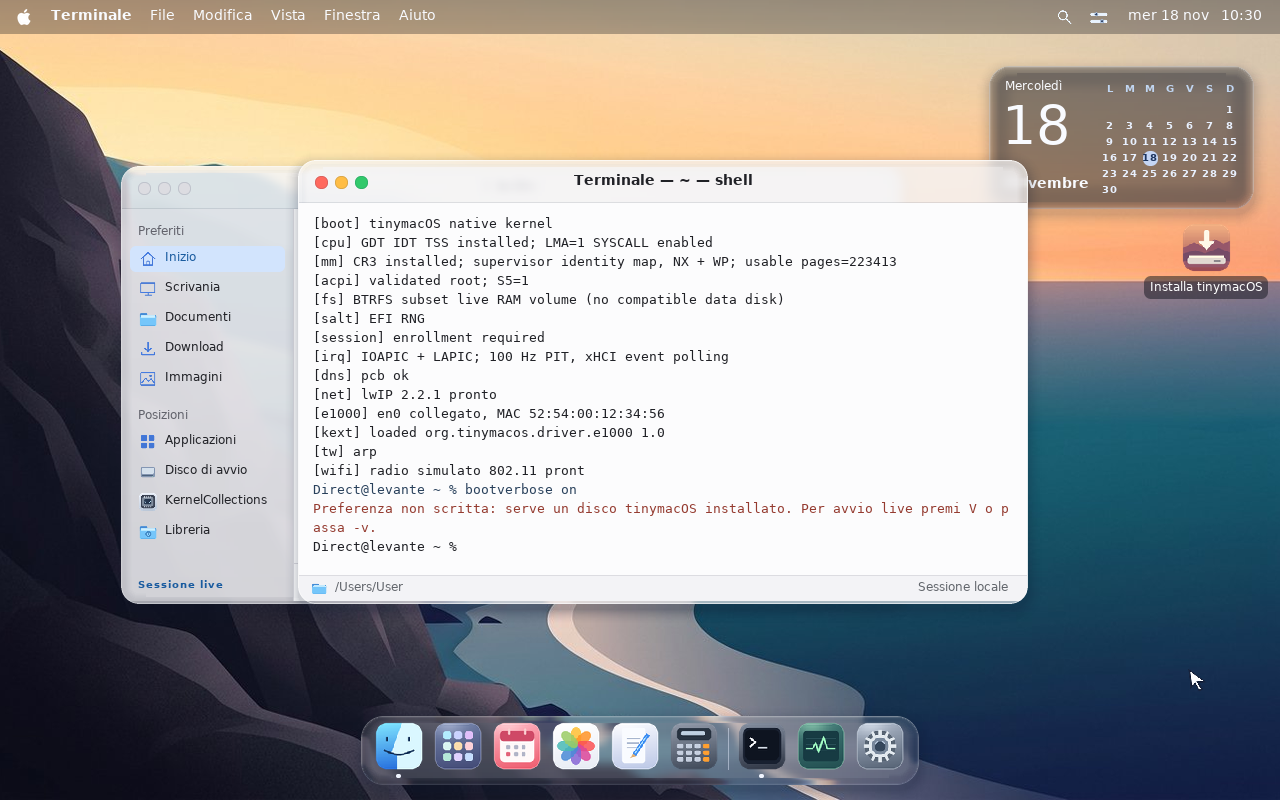
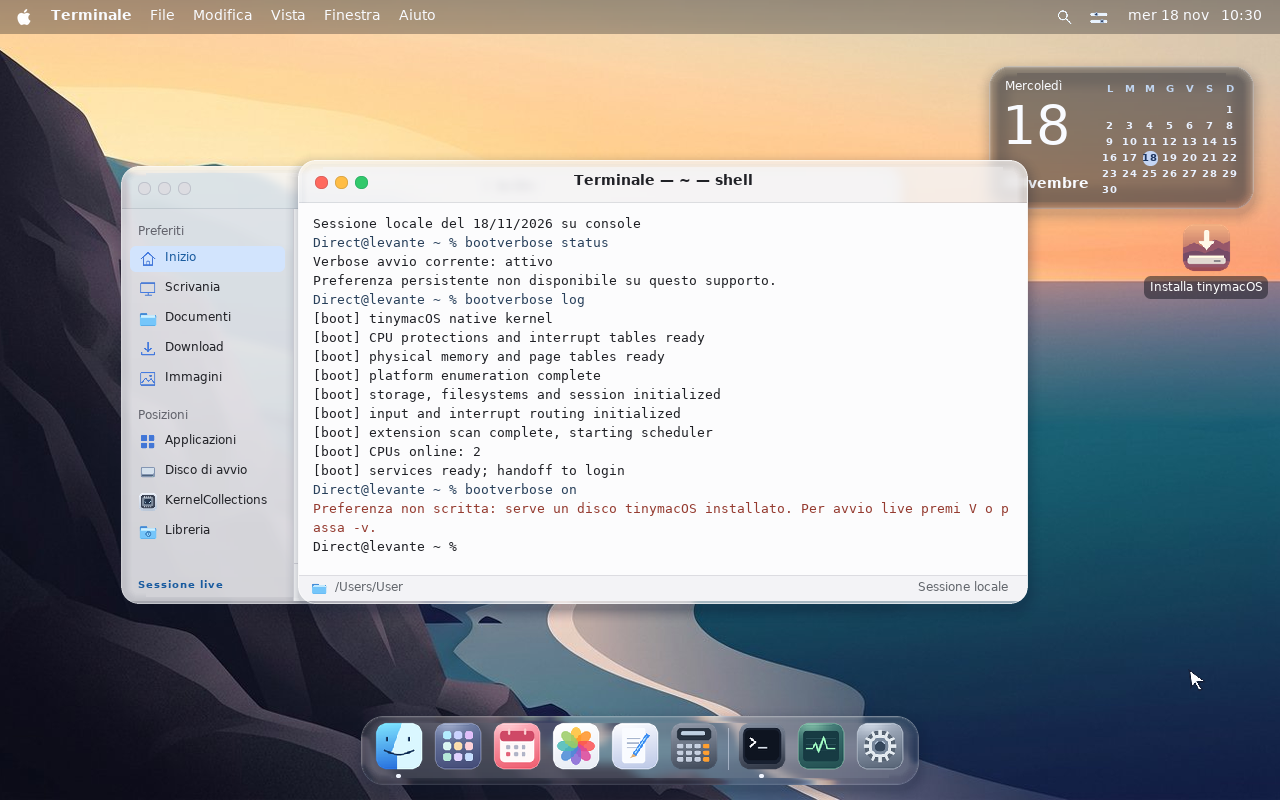
Record verified installed verbose round trips and current UEFI/BIOS/runtime QA; add safe incremental sync tooling

Changed region(s): [[0.25, 0.25, 0.6875, 0.5938]]

diff --git a/workspace/github_sync.py b/workspace/github_sync.py
@@ -1,0 +1,53 @@
+#!/usr/bin/env python3
+"""Back up the workspace to its private repo without storing Git/auth in snapshots.
+Default is status only. Use --push -m '...' to commit and push. Never force-push.
+If local Git metadata was lost, fetches the existing remote without checking out
+or overwriting workspace files. Missing files block the commit unless deletion
+was explicitly requested. A complete recovery should use a normal git clone.
+"""
+import argparse,os,re,shutil,subprocess,sys
+from pathlib import Path
+root=Path(__file__).resolve().parents[1]
+ap=argparse.ArgumentParser(description=__doc__)
+ap.add_argument('--push',action='store_true');ap.add_argument('-m','--message',default='Synchronize tinymacOS development workspace')
+ap.add_argument('--allow-delete',action='store_true');args=ap.parse_args()
+gitdir=Path(os.environ.get('TMC_GIT_DIR','/var/tmp/tmc-github-git/tinymacOS.git')).resolve()
+if gitdir.is_relative_to(root):raise SystemExit('Git metadata must be outside the workspace to preserve snapshot budget.')
+gh=os.environ.get('GH_BIN') or shutil.which('gh') or '/var/tmp/tmc-github-cli/gh'
+if not Path(gh).is_file():raise SystemExit('Install official GitHub CLI and authorize gh auth login first; no tokens in this script.')
+env=os.environ.copy()
+if 'GH_CONFIG_DIR' not in env and Path('/var/tmp/tmc-github-auth').is_dir():env['GH_CONFIG_DIR']='/var/tmp/tmc-github-auth'
+repo='ESPNex/tinymacOS';remote='https://github.com/'+repo+'.git'
+base=['git','--git-dir='+str(gitdir),'--work-tree='+str(root)]
+def run(cmd,**kw):return subprocess.run(cmd,cwd=root,env=env,check=True,**kw)
+def output(cmd):return run(cmd,stdout=subprocess.PIPE).stdout
+helper=['-c','credential.helper=','-c','credential.helper=!'+str(gh)+' auth git-credential']
+run([gh,'api','user','--silent'])
+if not (gitdir/'HEAD').exists():
+ gitdir.parent.mkdir(parents=True,exist_ok=True)
+ run(['git','init','--bare','--initial-branch=main',str(gitdir)])
+ run(base+['config','core.bare','false']);run(base+['config','core.worktree',str(root)])
+ run(base+['remote','add','origin',remote]);run(base+helper+['fetch','origin','main'])
+ run(base+['update-ref','refs/heads/main','FETCH_HEAD']);run(base+['reset','--mixed','HEAD'])
+actual=output(base+['remote','get-url','origin']).decode().strip()
+if actual!=remote:raise SystemExit('Unexpected origin; refusing to publish to another repository.')
+if not args.push:
+ run(base+['status','--short']);raise SystemExit(0)
+privacy=output([gh,'repo','view',repo,'--json','isPrivate','--jq','.isPrivate']).strip()
+if privacy!=b'true':raise SystemExit('Repository is not private; refusing to publish.')
+run(base+['add','--all'])
+deleted=output(base+['diff','--cached','--name-only','--diff-filter=D','-z'])
+if deleted and not args.allow_delete:raise SystemExit('Staged deletions found. Check missing snapshot files; restore from GitHub, or explicitly --allow-delete for intended deletions.')
+patterns=[rb'gh[pousr]_[A-Za-z0-9]{30,}',rb'github_pat_[A-Za-z0-9_]{40,}',rb'AKIA[A-Z0-9]{16}',rb'-----BEGIN (?:RSA |EC |OPENSSH )?PRIVATE KEY-----',rb'https://[^\s/@:]+:[^\s/@]+@github\.com']
+changed=output(base+['diff','--cached','--name-only','--diff-filter=ACMR','-z']).decode().strip('\0').split('\0')
+for name in filter(None,changed):
+ data=output(base+['show',':'+name])
+ if any(re.search(pattern,data) for pattern in patterns):raise SystemExit('Possible credential in staged file: '+name+'; review before publishing.')
+ if len(data)>95*1024*1024:raise SystemExit('Oversize staged file: '+name)
+run(base+['config','user.name','Arena workspace backup']);run(base+['config','user.email','arena-workspace@users.noreply.github.com'])
+if output(base+['diff','--cached','--name-only']).strip():run(base+['commit','-m',args.message])
+run(base+helper+['push','--set-upstream','origin','main'])
+local=output(base+['rev-parse','HEAD']).decode().strip()
+remote_sha=output([gh,'api','repos/'+repo+'/commits/main','--jq','.sha']).decode().strip()
+if local!=remote_sha:raise SystemExit('Remote verification mismatch; do not claim a completed backup.')
+print('Verified private backup: https://github.com/'+repo+'/commit/'+local)

diff --git a/workspace/integrated-next/qa/bios_boot.py b/workspace/integrated-next/qa/bios_boot.py
@@ -4,14 +4,15 @@ from pathlib import Path
 sys.path.insert(0,'/home/user/tinymacOS/tests')
 from retail_guest import Retail
 from pixels import locate
-w=Path(tempfile.mkdtemp(prefix='tmc-bios-test-',dir='/var/tmp'));e=Path(__file__).resolve().parents[1]/'evidence/bios-verified-config';e.mkdir(exist_ok=True)
-os.environ.update(TOOLROOT='/var/tmp/tmc/tools/root',TMC_BUILD='/var/tmp/tmc-integrated-system',TMC_BIOS_DISK=os.environ.get('TMC_BIOS_DISK','/var/tmp/tmc-legacy-config2.raw'),TMC_POINTER='mouse')
+w=Path(tempfile.mkdtemp(prefix='tmc-bios-test-',dir='/var/tmp'));e=Path(__file__).resolve().parents[1]/'evidence/bios-current';e.mkdir(exist_ok=True)
+os.environ.update(TOOLROOT='/var/tmp/tmc/tools/root',TMC_BUILD='/var/tmp/tmc-integrated-system',TMC_BIOS_DISK=os.environ.get('TMC_BIOS_DISK','/var/tmp/tmc-legacy-config3.raw'),TMC_POINTER='mouse')
 class BIOS(Retail):
  def frame(self):return self.snap()
  def wait(self,*args,**kwargs):
   end=time.monotonic()+80;saved=False
   while time.monotonic()<end:
    im=self.snap();im.save(e/'bios-latest.png')
+   if im.size==(1280,800) and im.crop((0,0,140,7)).convert('L').getextrema()[1]>180:im.save(e/'bios-picker-sample.png')
    if time.monotonic()>end-65 and not getattr(self,'boot_selected',False):
     im.save(e/'bios-opencore-picker.png');self.key('ret');self.boot_selected=True
    if not saved and time.monotonic()>end-73:im.save(e/'bios-early.png');saved=True
@@ -21,8 +22,8 @@ class BIOS(Retail):
 record={'passed':False}
 try:
  with BIOS('/not-attached',w,e,'bios-duet',live=True,launcher=Path('/home/user/tinymacOS/tools/run-bios-qemu.sh')) as g:
-  g.shot('bios-duet-setup');g.enroll(name='Bios');g.key('f2');g.visible('Sessione locale');g.cmd('bootverbose status');g.shot('bios-status-actual');g.visible('Verbose avvio corrente: attivo');g.shot('bios-verbose-status');g.cmd('bootverbose log');g.visible('[boot] tinymacOS native kernel',faces=(0,1,2,3,5,6,8));g.shot('bios-verbose-log')
-  record.update(passed=True,firmware='SeaBIOS',duet='OpenDuet 1.0.8 BlockIO',opencore='1.0.8',native_setup_login=True,verbose_source='BOOTCFG.BIN verbose flag',verbose_argument=False,terminal_bootverbose=True,bios_installer_boot_without_bootstrap=False)
+  g.shot('bios-duet-setup');g.enroll(name='Bios');g.key('f2');g.visible('Sessione locale');g.cmd('bootverbose status');g.shot('bios-status-actual');g.visible('Verbose avvio corrente: attivo');g.shot('bios-verbose-status');g.cmd('bootverbose log');g.visible('[boot] tinymacOS native kernel',faces=(0,1,2,3,5,6,8));g.visible('[boot] CPUs online: 2');g.shot('bios-verbose-log')
+  record.update(passed=True,firmware='SeaBIOS',duet='OpenDuet 1.0.8 BlockIO',opencore='1.0.8',native_setup_login=True,native_cpus_online=2,verbose_source='BOOTCFG.BIN verbose flag',verbose_argument=False,terminal_bootverbose=True,bios_installer_boot_without_bootstrap=False)
 finally:
  (e/'bios-duet.json').write_text(json.dumps(record,indent=2));print('run directory',w)
 print('PASS BIOS -> OpenDuet -> OpenCore -> native kernel/setup/login/verbose command')

diff --git a/workspace/integrated-next/qa/verbose_direct.py b/workspace/integrated-next/qa/verbose_direct.py
@@ -22,6 +22,6 @@ class Direct(Retail):
 record={'passed':False,'scope':'direct UEFI V-key and retail command/log; not installed persistence'}
 try:
  with Direct('/var/tmp/tmc-integrated-system/tinymacOS-2.4.3-x86_64.iso',w,out,'direct',live=True) as g:
-  g.key('backspace');g.key('backspace');g.enroll(name='Direct');g.key('f2');g.visible('Sessione locale');g.cmd('bootverbose status','Verbose avvio corrente: attivo');g.shot('status');g.cmd('bootverbose log');g.visible('[boot] tinymacOS native kernel');g.shot('log-page0');g.cmd('bootverbose on','Preferenza non scritta');g.shot('live-write-refusal');record.update(passed=True)
+  g.key('backspace');g.key('backspace');g.enroll(name='Direct');g.key('f2');g.visible('Sessione locale');g.cmd('bootverbose status','Verbose avvio corrente: attivo');g.shot('status');g.cmd('bootverbose log');g.visible('[boot] tinymacOS native kernel');g.visible('[boot] CPUs online: 2');g.shot('log-page0');g.cmd('bootverbose on','Preferenza non scritta');g.shot('live-write-refusal');record.update(passed=True)
 finally:(out/'result.json').write_text(json.dumps(record,indent=2))
 print('PASS direct UEFI V-key verbose + status/log + live immutable medium write refusal')

diff --git a/workspace/integrated-next/STATUS.md b/workspace/integrated-next/STATUS.md
@@ -1,0 +1,63 @@
+# Sviluppo integrato — stato di ripresa
+
+## Backup verificato
+
+Repository privata: https://github.com/ESPNex/tinymacOS . Primo commit effettivamente caricato e verificato: `7da0b6c7eee2f59226915d2bf19b66602e72ef91` (1.418 file; albero remoto confrontato per percorso, mode e Git blob hash). Le modifiche successive e i nuovi risultati vengono conservati nei commit seguenti di `main`.
+
+Il database Git Arena si trova in `/var/tmp/tmc-github-git/tinymacOS.git`, la CLI ufficiale in `/var/tmp/tmc-github-cli/gh` e l'autenticazione in una directory separata sotto `/var/tmp`. **Non sono sorgenti persistenti né il backup**. Non copiare credenziali nel checkout. Per riprendere da un altro ambiente, usare un normale clone GitHub privato e nuova autenticazione. `../github_sync.py` permette il backup incrementale senza `.git` nel workspace; controlla repository privata/commit remoto e blocca cancellazioni implicite da snapshot incompleti.
+
+## Risultati correnti
+
+| Area | Esito e prova | Limite |
+|---|---|---|
+| Backend/runtime | Suite completa 15/15 PASS rieseguita sul codice corrente; `../webkit-tmc/test-results/milestone-tests.json` | Non è accettazione browser |
+| VM/MMU | Operazioni positive reali con 1/2 vCPU, sette fault intenzionali per profilo | NX, arena 240 MiB, 32 riserve, massimo 64 MiB per riserva; non mmap POSIX completo |
+| SMP concorrente | Quattro worker × 400 round; 1.600 syscall buffer in gara con VM/allocazioni; PASS 4 e 8 vCPU; `evidence/smp-stress-{4,8}/result.json` | Queste prove precedono le ultime modifiche alla sola console/verbose; non provano libc pthread/TLS |
+| Verbose UEFI diretto | V durante la mela; framebuffer testuale osservato, stato/log Terminale, due CPU online; `evidence/verbose-direct/result.json` | Su live la scrittura persistente è correttamente rifiutata |
+| BIOS/OpenDuet/OpenCore | Disco QA FAT32/MBR: SeaBIOS → OpenDuet 1.0.8 BlockIO → OpenCore 1.0.8 → loader nativo → account/desktop/Terminale; due CPU online; `evidence/bios-current/bios-duet.json` | Verbose verificato da BOOTCFG, **non** da `boot-args`/LoadOptions. Non è ancora ISO ibrida né installazione BIOS autonoma |
+| Verbose su installato | Installer reale su SATA usa-e-getta, avvio senza ISO; off → Terminale on → riavvio verbose → Terminale off → riavvio quieto; `evidence/verbose-installed/result.json` | Provato UEFI/QEMU; nessuna prova hardware fisico |
+| Integrità installato | ESP e copia di ripristino OS identiche; Recovery cambia soltanto nel singolo settore BOOTCFG e ritorna identica dopo off | Il checksum di BOOTCFG rileva corruzione accidentale, non è una firma crittografica |
+
+### Comandi Terminale
+
+```text
+bootverbose status
+bootverbose on
+bootverbose off
+bootverbose log
+bootverbose log 1
+```
+
+`on/off` controllano il prossimo avvio di un sistema installato; il boot corrente non viene modificato retroattivamente. Il log è un log di avvio nativo, senza il tracing dettagliato del runtime retail. È leggibile dopo autenticazione, in pagine da 512 byte, da 0 a 31. I messaggi del loader precedenti al kernel sono visualizzati in verbose ma non copiati nel ring kernel. Sulla live usare V durante l'avvio oppure un BOOTCFG valido sul supporto di prova; il file ISO è in sola lettura. Le normali impostazioni non vanno scritte dentro l'ESP sigillata.
+
+## Sorgenti e build
+
+- Primari: `../../tinymacOS/`; `sources/` è il sottoinsieme modificato rispetto a `baseline-hashes.json`.
+- `qa/sync_sources.py` aggiorna overlay/header e sottoinsieme prima delle build. I vendor restano anche nel primario con lock/licenze.
+- Build e immagini soltanto sotto `/var/tmp`, mai nel checkout. Questi output possono sparire: ricostruirli dai sorgenti, non prometterne la persistenza.
+- `../../tinymacOS/tools/build-legacy.py` crea solo un nuovo file disco QA esterno. Il fallback EFI punta a OpenCore, il loader nativo è separato in EFI/TMC. La voce nativa viene cercata tramite BlessOverride; i tentativi precedenti con entry custom non sono prove positive.
+- Config OpenCore validata con ocvalidate ufficiale 1.0.8; artefatti di redistribuzione estratti in `vendor/opencore-1.0.8/`, non un checkout completo dei sorgenti upstream.
+- Il parser ACPI del loader include ora fallback alla tabella ACPI 1.0 e ricerca legacy RSDP checksummed; il test BIOS corrente verifica effettivamente due CPU online.
+
+## Blocchi ancora aperti
+
+1. **Safari/WebKit reale assente.** Non sono compilati WTF, JavaScriptCore o WebCore. Nessun rendering reale HTML/CSS/JS o HTTPS nel browser, né shell Safari collegata ai temi. Restano runtime libc/C++, TLS/errno di thread, pthread/attese, allocator WTF, grafica/font/event loop e TLS di rete con validazione completa.
+2. Il bootstrap BIOS di prova non aggiorna l'installer GPT/FAT16 a un sistema BIOS installato autonomo. Non distribuire il disco QA come se fosse l'ISO integrata richiesta.
+3. Verificare o correggere il percorso OpenCore `-v`: i tentativi precedenti senza BOOTCFG non hanno attivato il flag. Il risultato positivo corrente usa deliberatamente BOOTCFG, non nasconde questo limite.
+4. Completare i test di regressione e hardware prima di una release. Lo stress nativo non equivale a un audit generale della sicurezza.
+5. **Nessun nuovo deploy ISO.** Ultima release distribuita resta la manutenzione 2.4.3, senza browser; non chiamare le build diagnostiche una nuova release Safari.
+
+## Ripetizione QA
+
+```sh
+python3 workspace/integrated-next/qa/sync_sources.py
+TOOLROOT=/var/tmp/tmc/tools/root TMC_BUILD=/var/tmp/tmc-integrated-system bash tinymacOS/build.sh
+python3 workspace/integrated-next/qa/verbose_installed.py
+python3 workspace/integrated-next/qa/verbose_direct.py
+python3 tinymacOS/tools/build-legacy.py --verbose-config /var/tmp/tmc-integrated-system/tinymacOS-2.4.3-x86_64.iso /var/tmp/tmc-legacy-config3.raw
+python3 workspace/integrated-next/qa/bios_boot.py
+TOOLROOT=/var/tmp/tmc/tools/root python3 workspace/webkit-tmc/tools/run-tests.py --guest
+python3 workspace/github_sync.py --push -m "Aggiornamento sviluppo e prove"
+```
+
+La destinazione raw deve essere nuova: se esiste già, sceglierne una nuova e passare lo stesso percorso alla variabile `TMC_BIOS_DISK` del test. Alcuni percorsi QA conservano il workspace `/home/user`: adattarli in un clone diverso. Non lanciare test contro dischi reali o dati da conservare.

diff --git a/workspace/webkit-tmc/README.md b/workspace/webkit-tmc/README.md
@@ -2,6 +2,8 @@
 
 ## Stato reale
 
+**Aggiornamento sviluppo integrato:** SMP VM non è più limitato a una CPU. Stress nativo concorrente PASS con 4 e 8 vCPU (4 worker, 400 round, 1.600 chiamate buffer S_INFO), evidenze in `../integrated-next/evidence/smp-stress-{4,8}/`. Suite backend/runtime completa 15/15 PASS; non sono test JSC/WebCore. Le note di milestone precedenti conservate altrove possono descrivere il vecchio rifiuto SMP. Repository privata di backup: https://github.com/ESPNex/tinymacOS .
+
 **Non è ancora un browser e non è ancora un port WebKit compilabile.**
 
 Nome applicazione concordato: **Safari** (progetto indipendente). Riferimento: Safari desktop classico con tutti i temi del sistema. **La ISO 2.4.1 di manutenzione è stata autorizzata e distribuita prima del browser. Non include Safari/WebKit funzionante.** Il criterio browser resta HTTPS e test HTML/CSS/JavaScript reali. Criteri in `release-gates.json`; avanzamento in `PROGRESS.md`. La 2.4.1 include le nuove ABI kernel ma non il motore. La baseline 2.4.0 precedente non contiene quelle ABI.
@@ -14,7 +16,7 @@ Nome applicazione concordato: **Safari** (progetto indipendente). Riferimento: S
 - `posix/src/network.c`: DNS/TCP, nuove operazioni S_NET/8–9 con EOF distinto dagli errori e lettura dello stato. Richiede il kernel aggiornato nell’overlay.
 - `posix/src/poll.c`: attesa su handle TCP con timeout.
 - `posix/src/descriptors.c`: namespace comune file read-only/TCP, dup/offset condiviso, lifetime e poll misto. Contratto backend, non ancora API libc POSIX; chiamante serializzato.
-- `posix/src/vm.c`: nuova VM nativa con riserva/commit/protezioni/guard/decommit, validata sul guest a 1 CPU; SMP ed EXEC esplicitamente rifiutati, non è mmap POSIX.
+- `posix/src/vm.c`: nuova VM nativa con riserva/commit/protezioni/guard/decommit, validata sul guest a 1/2 vCPU e stress concorrente a 4/8 vCPU; EXEC resta rifiutato, non è mmap POSIX.
 - `kernel-overlay/`: dieci file di integrazione sincronizzati con TinymacOS, inclusa la correzione della backpressure TCP.
 - `platform/src/appearance.c`: lettura reale S_INFO, palette condivisa con il compositor, rilevamento cambiamenti. Non ancora collegato a un’interfaccia browser.
 - `posix/src/native_syscall.c`: ponte syscall x86-64 nativo, non syscall Linux.
@@ -33,7 +35,7 @@ Nome applicazione concordato: **Safari** (progetto indipendente). Riferimento: S
 python3 tools/run-tests.py
 ```
 
-La suite base contiene **9 verifiche** host/compilazione oggetti. La suite completa di questo blocco si avvia con `python3 tools/run-tests.py --guest`: **15 verifiche** includendo due build diagnostiche, rete/file sul nuovo kernel e VM/MMU. Probe reale linkata ed eseguita sul guest: TCP 1.048.893 byte con SHA256, FIN/half-close, timeout/EAGAIN/reset; descriptor/dup/seek e font reale 2.215.962 byte con SHA256. VM reale su 1 CPU, 7 fault intenzionali verificati, rifiuto VM su SMP; limiti di arena/mapping documentati. Nessun test JSC/WebCore/HTTPS è ancora disponibile.
+La suite base contiene **9 verifiche** host/compilazione oggetti. La suite completa di questo blocco si avvia con `python3 tools/run-tests.py --guest`: **15 verifiche** includendo due build diagnostiche, rete/file sul nuovo kernel e VM/MMU. Probe reale linkata ed eseguita sul guest: TCP 1.048.893 byte con SHA256, FIN/half-close, timeout/EAGAIN/reset; descriptor/dup/seek e font reale 2.215.962 byte con SHA256. VM reale su 1/2 vCPU, 7 fault intenzionali verificati per profilo, stress multi-CPU separato; limiti di arena/mapping documentati. Nessun test JSC/WebCore/HTTPS è ancora disponibile.
 
 La probe linka un errno globale provvisorio per un solo chiamante; non è una libc multithread. La build QA sostituisce gli alias command soltanto nel volume diagnostico esterno e **non va distribuita**. Gli oggetti standalone conservano dipendenze non risolte finché non vengono linkati con un runtime. Screenshot, hash e limiti in `PROGRESS.md`.
 

diff --git a/README.md b/README.md
@@ -17,7 +17,7 @@ Questo repository conserva i file del workspace necessari a riprendere lo svilup
 
 - VM/MMU nativa: verifiche positive su 1/2 vCPU e stress concorrente su 4/8 vCPU documentati. Non sono prove di pthread/POSIX completo o WebKit.
 - Bootstrap BIOS di prova: SeaBIOS → OpenDuet 1.0.8 BlockIO → OpenCore → loader nativo e desktop, con verbose tramite `BOOTCFG.BIN`, verificati in QEMU. Il bootstrap è una **immagine disco QA separata**, non ancora un'ISO ibrida distribuita e non un installer BIOS completo.
-- Verbose UEFI diretto selezionato con `V`, comandi `bootverbose status`, `on`, `off`, `log [pagina]` implementati. Verificati selezione live, stato, log e rifiuto di scrittura persistente sulla live. Il test completo della preferenza installata è in `workspace/integrated-next/qa/verbose_installed.py`; controllarne il risultato prima di dichiararlo superato.
+- Verbose UEFI diretto selezionato con `V`, comandi `bootverbose status`, `on`, `off`, `log [pagina]` implementati. Verificati selezione live, stato, log e rifiuto di scrittura persistente sulla live. Il test completo della preferenza installata in `workspace/integrated-next/qa/verbose_installed.py` è passato: off → on da Terminale → riavvio verbose → off → riavvio quieto; ESP sigillata e payload Recovery invariati. Evidenze in `workspace/integrated-next/evidence/verbose-installed/`.
 - `workspace/webkit-tmc/test-results/milestone-tests.json` riporta la suite backend/runtime. Date e commit delle prove contano: un risultato precedente non valida automaticamente modifiche successive.
 - **Safari/WebKit reale non è completato. Nessuna nuova ISO integrata è stata pubblicata.**
 - Nessuna validazione su hardware fisico; i risultati QEMU non garantiscono compatibilità BIOS/USB universale.
@@ -41,3 +41,12 @@ Gli script QA storici possono contenere `/home/user` come percorso del workspace
 Nell'ambiente Arena il database Git locale è mantenuto sotto `/var/tmp/tmc-github-git/` per non raddoppiare il consumo degli snapshot. Questo database e l'autenticazione CLI non sono il backup: **il backup è il commit effettivamente inviato e verificato su GitHub**. Fuori da Arena usare un normale `git clone`.
 
 Le credenziali OAuth sono separate sotto `/var/tmp`, non sono salvate qui e possono dover essere nuovamente autorizzate in una futura sessione. Non inserire token in URL, script, documenti o messaggi.
+
+Per i successivi backup nell'ambiente Arena:
+
+```sh
+python3 workspace/github_sync.py                 # stato, senza commit/push
+python3 workspace/github_sync.py --push -m "Descrizione delle modifiche"
+```
+
+Lo script verifica visibilità privata e commit remoto, non fa force-push, rifiuta cancellazioni implicite da snapshot incompleti e cerca pattern comuni di credenziali prima di pubblicare. Non è un secret scanner esaustivo: serve comunque revisione. Se CLI/autenticazione sono scadute o perse, autorizzarle nuovamente senza salvare token nel checkout.

diff --git a/workspace/webkit-tmc/PROGRESS.md b/workspace/webkit-tmc/PROGRESS.md
@@ -6,7 +6,19 @@ Applicazione **Safari**, UI desktop classica, integrazione con tutti i temi di t
 
 Le manutenzioni 2.4.1/2.4.2 e l’**ultima 2.4.3 esplicitamente richiesta** sono state distribuite senza browser. Dopo la 2.4.3 niente altre ISO intermedie salvo nuova autorizzazione. Prossima release browser solo con vero HTTPS/HTML/CSS/JavaScript, temi e sicurezza collaudati.
 
-## Dopo il deploy 2.4.3: primo blocco SMP (sviluppo)
+## Stato corrente: SMP positivo e backup GitHub
+
+- VM/MMU reale su 1 e 2 vCPU: operazioni positive e sette fault intenzionali per profilo; suite backend/runtime 15/15 PASS.
+- Stress concorrente: quattro worker, 400 round e 1.600 syscall con buffer in gara con mutazioni VM; template del framebuffer verificati, PASS con 4 e 8 vCPU. Risultati in `../integrated-next/evidence/smp-stress-{4,8}/result.json`. Non è una libc pthread o un test di WebKit.
+- Verbose nativo UEFI con V e comando Terminale, bootstrap BIOS/OpenDuet/OpenCore con BOOTCFG, verificati separatamente. Test installato off/on/off con riavvii e controllo byte ESP/Recovery PASS, in `../integrated-next/evidence/verbose-installed/`.
+- Backup privato effettivamente caricato: https://github.com/ESPNex/tinymacOS ; database Git e credenziali fuori dal workspace. Sorgenti, evidenze e strumenti conservati estratti.
+- Nessuna nuova ISO pubblicata. WTF/JSC/WebCore/Safari non compilati. Tutti i gate browser rimangono bloccanti.
+
+## Storico delle milestone precedenti
+
+Le sezioni seguenti registrano lo stato al momento dei rispettivi test. In particolare **il vecchio rifiuto SMP non descrive più il kernel di sviluppo corrente**; resta corretto per le vecchie release distribuite.
+
+### Dopo il deploy 2.4.3: primo blocco SMP (sviluppo)
 
 La manutenzione è congelata in `../maintenance-2.4.3/sources/` e su Drive. L'albero OS di sviluppo ora differisce: mailbox TLB release/acquire e servizio dei pending shootdown negli spinlock IRQ-off, senza lock nell'handler. Compilazione target PASS; 8 worker host, 10.001 richieste e 80.008 ACK con ASan/UBSan PASS. Suite ricostruita e guest rete/VM 1/2 vCPU **15/15 PASS**.
 
